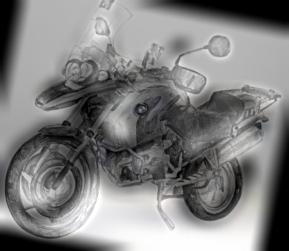
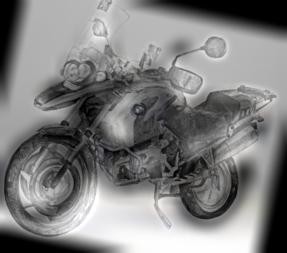
hybrid done

diff --git a/proj2/index.html b/proj2/index.html
@@ -343,6 +343,101 @@
         </td>
     </tr></table>
 
+    <h4>Real-life motorcycle & drawing of a motorcycle</h4>
+
+    <table><tr>
+        <td>
+            <div class="center">
+                <img src="images/hybrid/moto_ref.jpg" class="single-image"/> <br>
+                <span>Figure X: Real 2011 BMW R1200GS.</span>
+            </div>
+        </td>
+        <td>
+            <div class="center">
+                <img src="images/hybrid/moto3.jpg" class="single-image"/> <br>
+                <span>Figure X: Drawing of the 2011 BMW R1200GS (graphite on paper).</span>
+            </div>
+        </td>
+        <td>
+            <div class="center">
+                <img src="images/hybrid/hybrid_moto_gray.jpg" class="single-image"/> <br>
+                <span>Figure X: Grayscale hybrid image of the motorcycle.</span>
+            </div>
+        </td>
+        <td>
+            <div class="center">
+                <img src="images/hybrid/hybrid_moto.jpg" class="single-image"/> <br>
+                <span>Figure X: Colored hybrid image of the motorcycle.</span>
+            </div>
+        </td>
+    </tr></table>
+
+    <h4>Prof. Efros & Prof. Ng</h4>
+
+    <table><tr>
+        <td>
+            <div class="center">
+                <img src="images/hybrid/efros.jpg" class="single-image"/> <br>
+                <span>Figure X: Computer vision professor Alexei Efros <span class="code">efros.jpg</span>.</span>
+            </div>
+        </td>
+        <td>
+            <div class="center">
+                <img src="images/hybrid/yirenng.jpg" class="single-image"/> <br>
+                <span>Figure X: Computer graphics professor Ren Ng <br> <span class="code">yirenng.jpg</span>.</span>
+            </div>
+        </td>
+        <td>
+            <div class="center">
+                <img src="images/hybrid/hybrid_graphics_gray.jpg" class="single-image"/> <br>
+                <span>Figure X: Grayscale hybrid image of the two professors.</span>
+            </div>
+        </td>
+        <td>
+            <div class="center">
+                <img src="images/hybrid/hybrid_graphics.jpg" class="single-image"/> <br>
+                <span>Figure X: Colored hybrid image of the two professors.</span>
+            </div>
+        </td>
+    </tr>
+        <tr>
+        <td>
+            <div class="center">
+                <img src="images/hybrid/hybrid_freq1.jpg" class="single-image"/> <br>
+                <span>Figure X: Frequency analysis of <span class="code">efros.jpg</span>.</span>
+            </div>
+        </td>
+        <td>
+            <div class="center">
+                <img src="images/hybrid/hybrid_freq2.jpg" class="single-image"/> <br>
+                <span>Figure X: Frequency analysis of <span class="code">yirenng.jpg</span>.</span>
+            </div>
+        </td>
+            <td>
+                <div class="center">
+                    <img src="images/hybrid/hybrid_freq1_filtered.jpg" class="single-image"/> <br>
+                    <span>Figure X: Frequency analysis of <span class="code">efros.jpg</span> after low-pass filtering.</span>
+                </div>
+            </td>
+            <td>
+                <div class="center">
+                    <img src="images/hybrid/hybrid_freq2_filtered.jpg" class="single-image"/> <br>
+                    <span>Figure X: Frequency analysis of <span class="code">yirenng.jpg</span> after high-pass filtering.</span>
+                </div>
+            </td>
+        </tr>
+        <tr>
+            <td>
+                <div class="center">
+                    <img src="images/hybrid/hybrid_graphics_frequency.jpg" class="single-image"/> <br>
+                    <span>Figure X: Frequency analysis of the professors' hybrid image.</span>
+                </div>
+            </td>
+        </tr>
+    </table>
+
+    <p></p>
+
 </div>
 
 <br>
